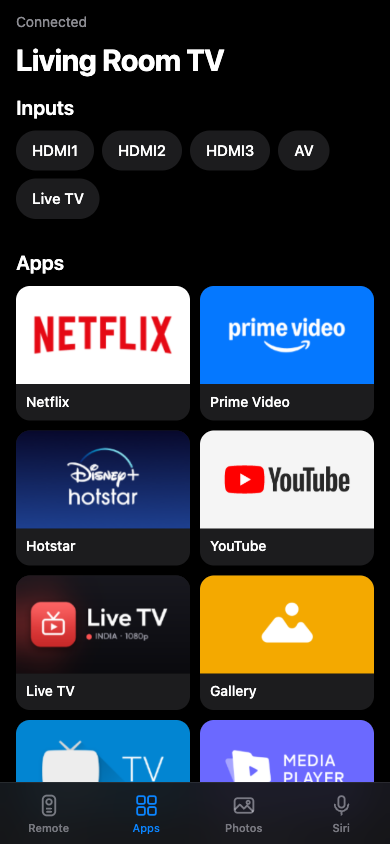
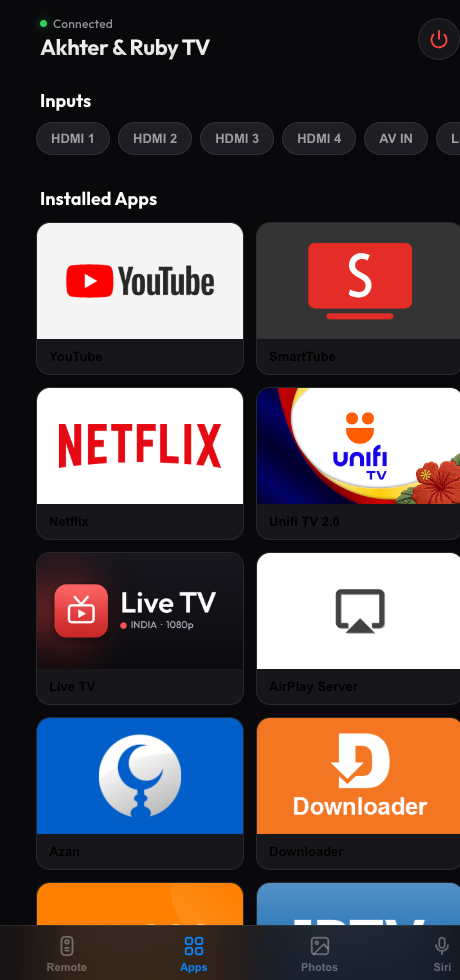
Update README remote section with real screenshots and install on TV

diff --git a/launcher/app/src/main/assets/phone.html b/launcher/app/src/main/assets/phone.html
@@ -1251,7 +1251,10 @@
 <script>
 const $ = (id) => document.getElementById(id);
 let token = null;
-try { token = localStorage.getItem("tvtoken"); } catch (e) {}
+try {
+  token = new URLSearchParams(location.search).get("token") || localStorage.getItem("tvtoken");
+  if (token) localStorage.setItem("tvtoken", token);
+} catch (e) {}
 
 // Haptic feedback helper
 function vibrate(ms = 12) {
@@ -1429,7 +1432,7 @@ async function act(path, label) {
 
 // ------------------------------------------------------------ Navigation Tabs
 let tab = "remote";
-try { tab = localStorage.getItem("tvtab") || "remote"; } catch (e) {}
+try { tab = new URLSearchParams(location.search).get("tab") || localStorage.getItem("tvtab") || "remote"; } catch (e) {}
 function go(t) {
   tab = t;
   try { localStorage.setItem("tvtab", t); } catch (e) {}

diff --git a/README.md b/README.md
@@ -15,10 +15,15 @@ Everything runs locally on your TV, requires under 40 MB of RAM, and is **100% r
 | ![Launcher Home](docs/images/launcher-home.png) | ![App Grid](docs/images/launcher-grid.png) |
 | *Personalized greeting, Hijri calendar, prayer countdown, and glowing dock* | *Custom 16:9 banners, including Samsung Smart View / Miracast* |
 
-| Miracast (Smart View) Tile | Phone Remote (Web App) |
+| Miracast (Smart View) Tile | App Tile Menu (Remote Long-Press) |
 |:---:|:---:|
-| <img src="docs/images/miracast-tile.png" alt="Miracast Smart View Tile" width="340"> | <img src="docs/images/phone-remote.png" alt="Phone remote: trackpad, buttons and keyboard" width="170">&nbsp;&nbsp;<img src="docs/images/phone-apps.png" alt="Phone remote: apps and inputs" width="170"> |
-| *Native screen casting tile sorted cleanly under 'M'* | *Zero-install touch remote, keyboard, and app launcher at `http://<TV-IP>:8080`* |
+| <img src="docs/images/miracast-tile.png" alt="Miracast Smart View Tile" width="340"> | <img src="docs/images/tv-remote-menu.png" alt="Remote Long Press Context Menu" width="340"> |
+| *Native screen casting tile sorted cleanly under 'M'* | *Long-press OK to Open, Add/Remove from dock, Reorder, Replace, or Uninstall* |
+
+| Phone Remote: Siri Remote | Phone Remote: Apps & Inputs | Phone Remote: 4K Wallpapers |
+|:---:|:---:|:---:|
+| <img src="docs/images/phone-remote.png" alt="Phone remote: trackpad, buttons and keyboard" width="220"> | <img src="docs/images/phone-apps.png" alt="Phone remote: apps and inputs" width="220"> | <img src="docs/images/phone-unsplash.png" alt="Phone remote: Unsplash 4K Wallpapers" width="220"> |
+| *Zero-install Apple TV touch remote with trackpad & volume* | *Quick-launch inputs and all installed TV apps* | *Browse curated 4K Unsplash photography & set on TV* |
 
 | Live TV App | Category Sidebar |
 |:---:|:---:|
@@ -244,6 +249,13 @@ No app needs to be installed on your phone. The TV hosts its own remote control 
    * **On Android**: Tap the three dots menu (⋮) → tap **Install App** or **Add to Home Screen**.
 6. You now have an ad-free, full-screen touch remote with trackpad, live keyboard typing, and photo uploader!
 
+### 📱 Phone Remote Tabs & Features
+
+| Remote (Apple TV Siri Remote) | Apps & Inputs Drawer | Wallpapers & Unsplash 4K Explorer |
+|:---:|:---:|:---:|
+| <img src="docs/images/phone-remote.png" alt="Touch Remote Screen" width="230"> | <img src="docs/images/phone-apps.png" alt="Apps Drawer Screen" width="230"> | <img src="docs/images/phone-unsplash.png" alt="Unsplash 4K Explorer Screen" width="230"> |
+| *Smooth fluid trackpad, physical D-pad toggle, volume rocker, TV power, and real-time search typing* | *Instant 1-tap switching between TV inputs (HDMI 1-4, AV) and launching any TV app* | *Switch rotation modes (`Mix Both`, `Local`, `Unsplash`), browse 4K collections, and send photos to TV* |
+
 ---
 
 ## 🕹 Everyday Controls & Remote Cheat-Sheet
@@ -259,6 +271,19 @@ No app needs to be installed on your phone. The TV hosts its own remote control 
 | **View Full Prayer Timetable** | Click the **Time / Prayer text** in the top-left corner |
 | **Screen Cast (Android/Samsung)** | Click the **Miracast (Smart View)** tile in the app grid |
 | **Screen Mirror (Apple/iPhone)** | Click the **AirPlay** pill in the top menu |
+
+### 🎛 On-Screen Tile Functions (Long-Press Remote OK)
+
+<p align="center">
+  <img src="docs/images/tv-remote-menu.png" alt="On-Screen Tile Context Menu" width="600">
+</p>
+
+Long-press **OK / Center** (or press the **Menu** button) on any dock tile or grid app to open its glass context menu:
+* **▶ Open**: Launch the selected app directly.
+* **📌 Remove from dock / Add to dock**: Pin apps to the home dock row or return them to the grid below.
+* **↔ Reorder…**: Interactive reordering mode (`Move Left`, `Move Right`, `Move to First`, `Move to Last`, `Done`) plus live remote **D-pad Left / Right** shortcuts to nudge the tile in real time.
+* **🔄 Replace app…**: Choose any installed app from a list to swap with the selected dock tile.
+* **🗑 Uninstall**: Triggers the official native Android TV uninstallation dialog for non-system apps.
 
 ---
 
